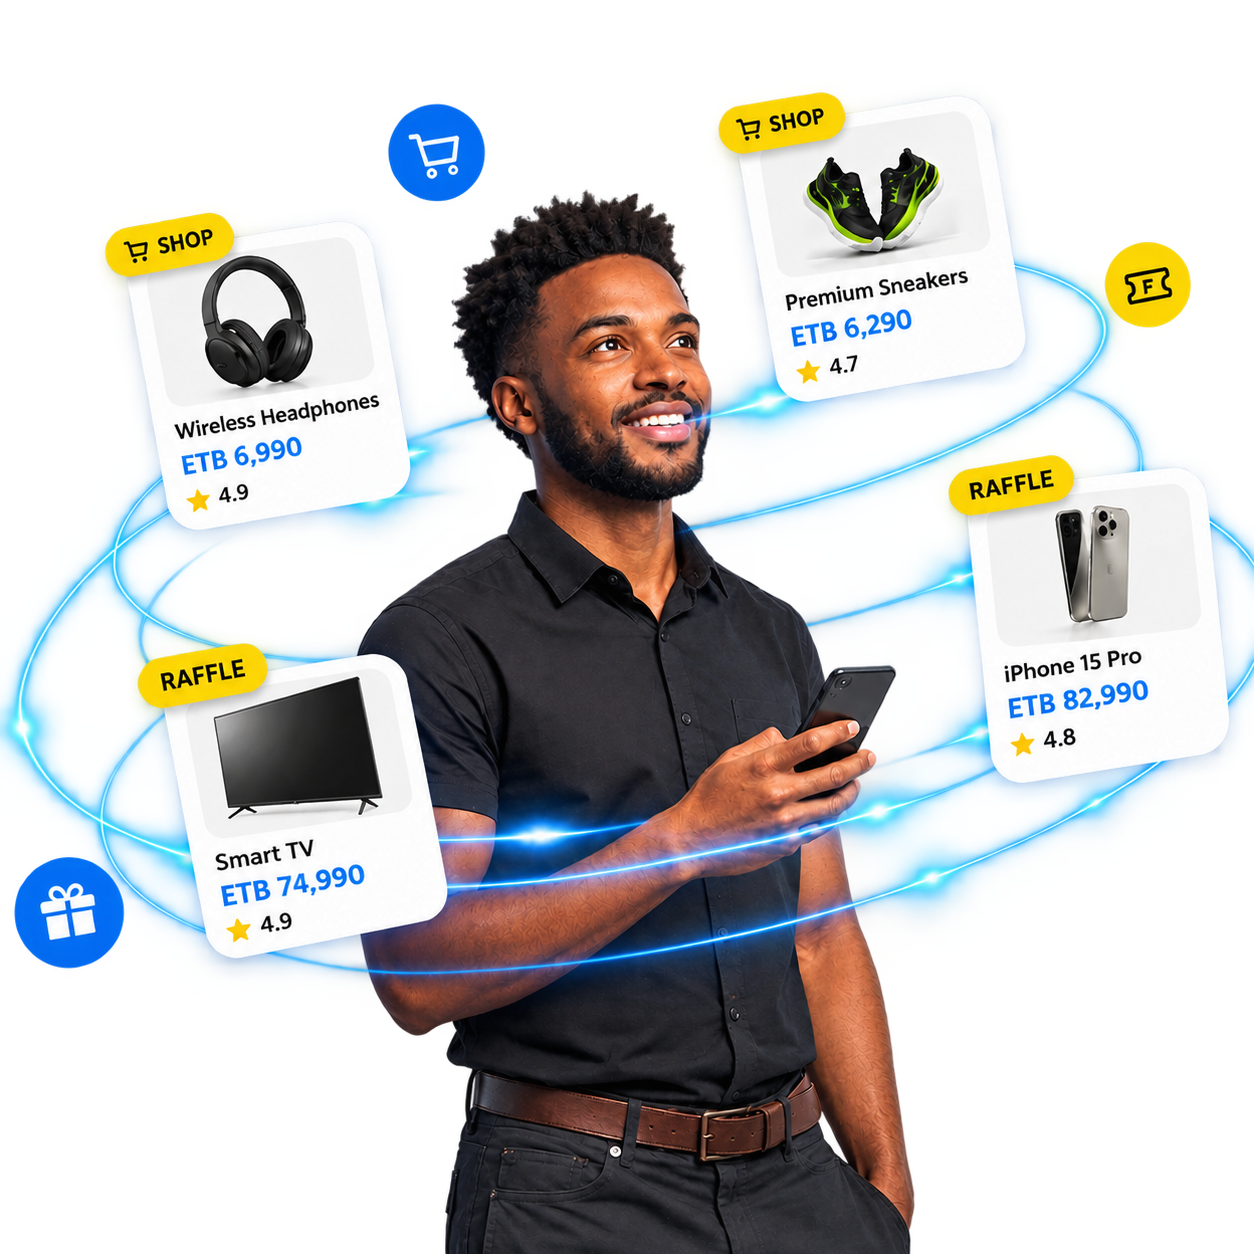
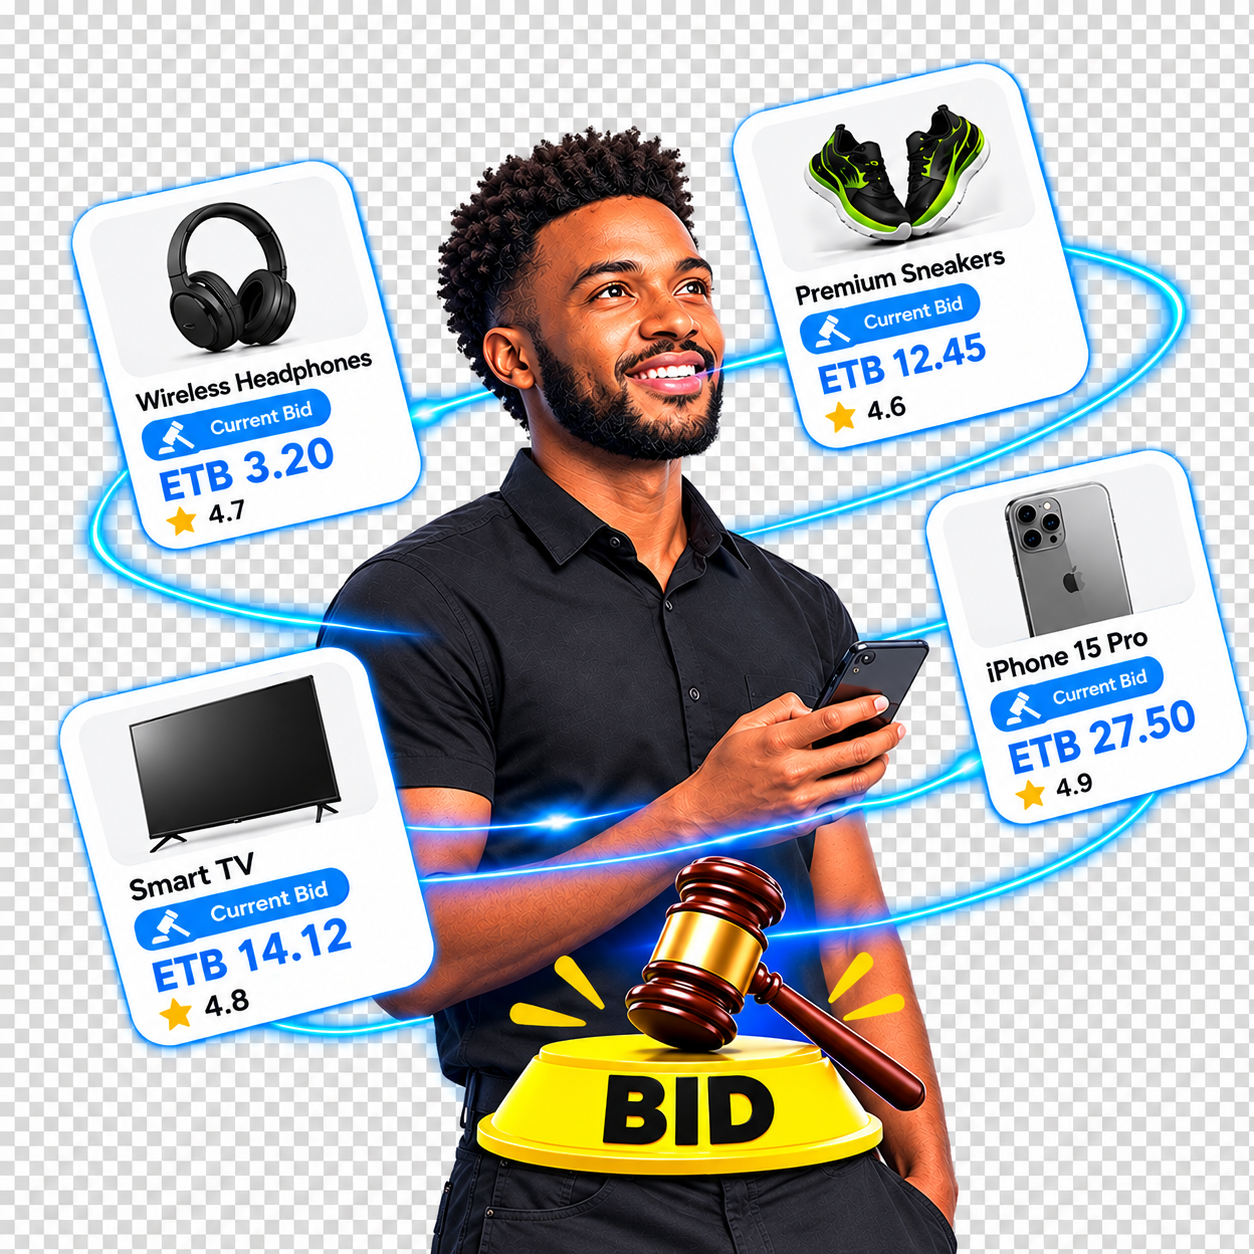
fix: update API base URL to point to client backend

diff --git a/src/lib/api.ts b/src/lib/api.ts
@@ -4,11 +4,11 @@ export const getApiBase = (): string => {
     if (hostname === "localhost" || hostname === "127.0.0.1") {
       return process.env.NEXT_PUBLIC_API_URL || "http://localhost:8080";
     }
-    return process.env.NEXT_PUBLIC_API_URL || "https://adminbackend.carramarket.com";
+    return process.env.NEXT_PUBLIC_API_URL || "https://clientbackend.carramarket.com";
   }
   return (
     process.env.NEXT_PUBLIC_API_URL ||
-    "http://localhost:8080"
+    "https://clientbackend.carramarket.com"
   );
 };
 
